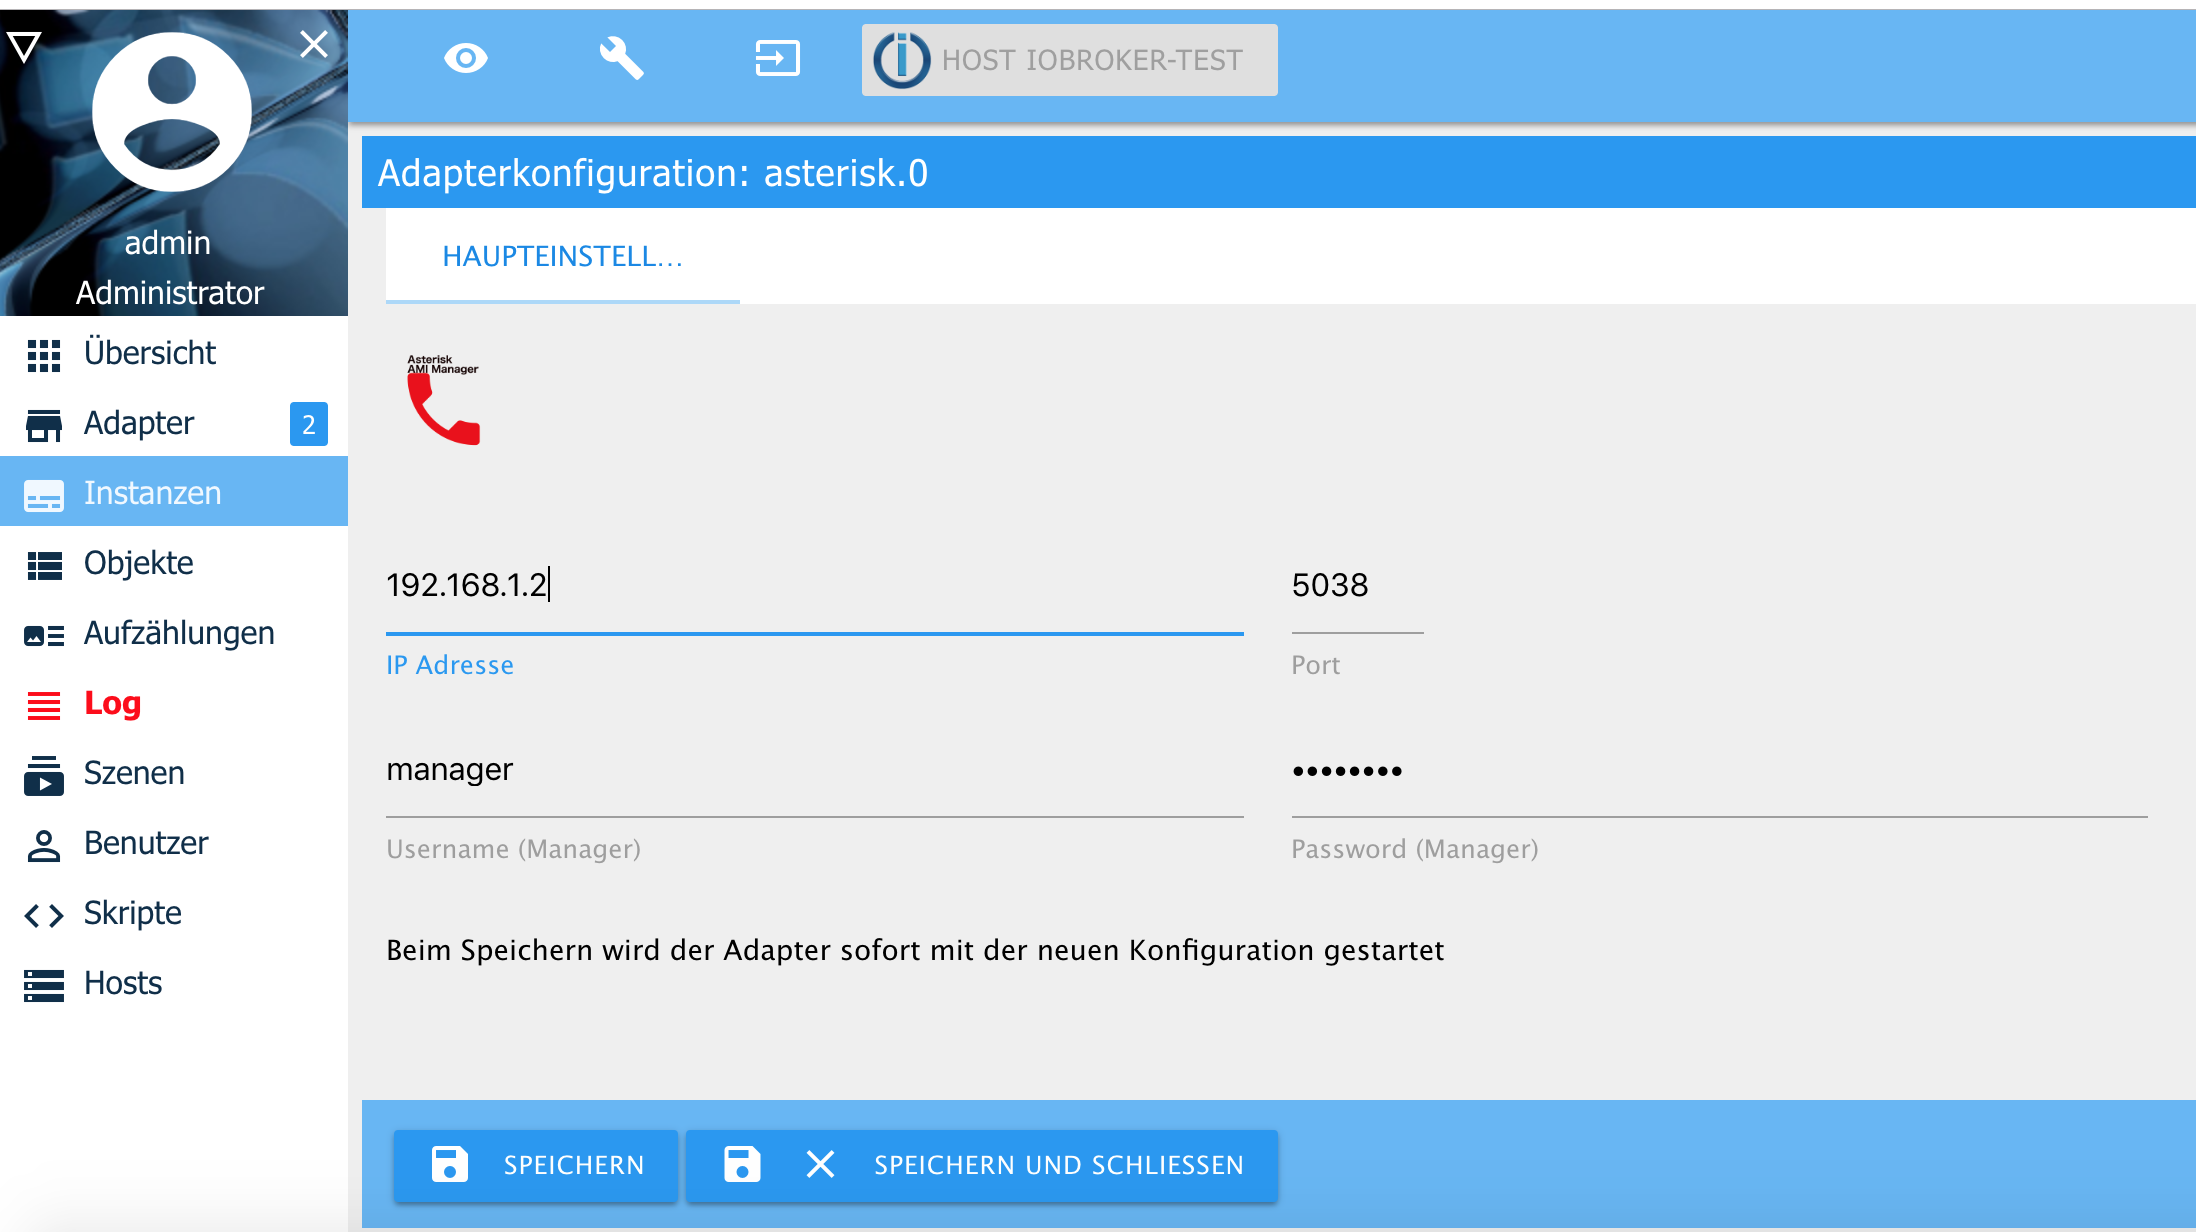
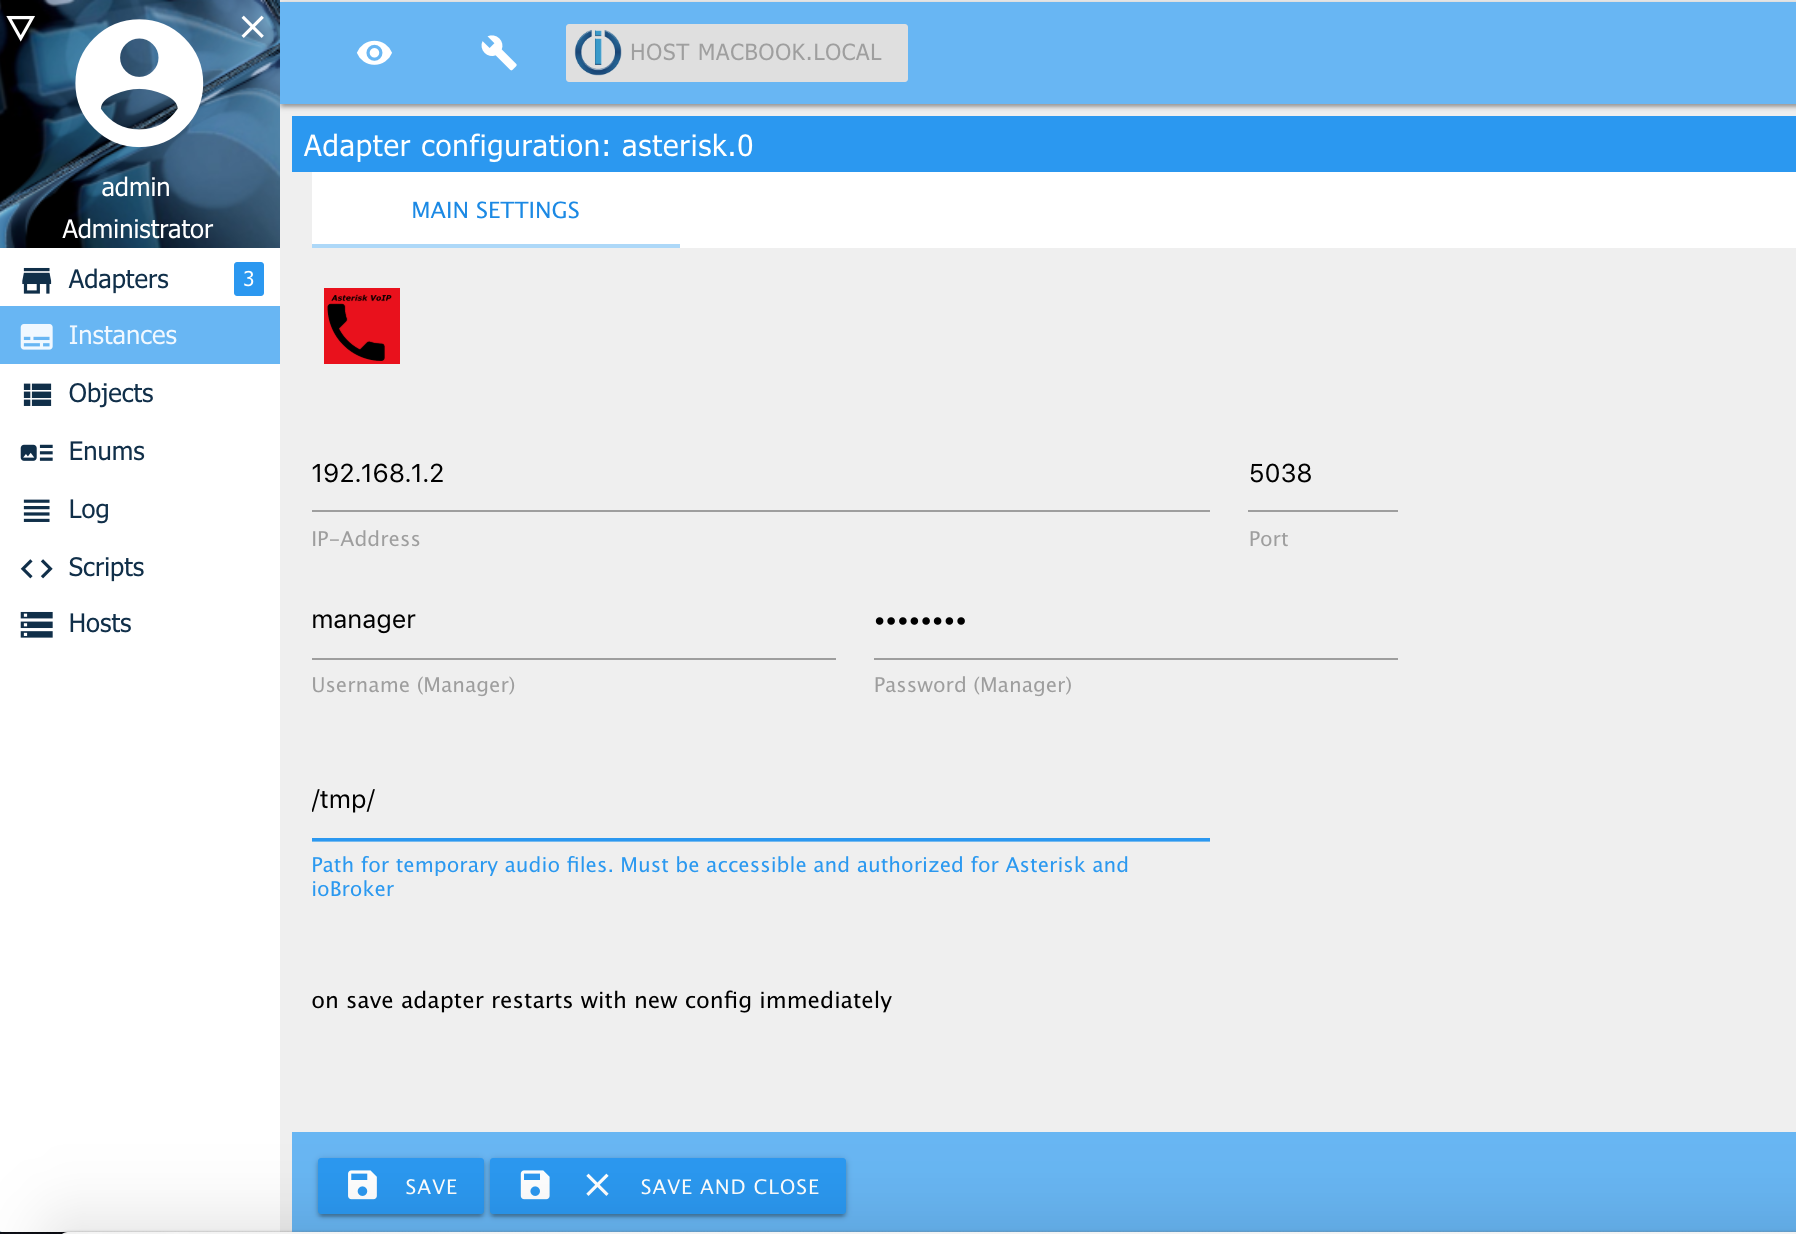
Update

diff --git a/asterisk.js b/asterisk.js
@@ -8,6 +8,7 @@ var ami = require(__dirname + '/lib/ami');
 var transcode = require(__dirname + '/lib/transcode');
 var asterisk = undefined
 var converter = undefined;
+var systemLanguage  = 'EN';
 
 // *****************************************************************************************************
 // is called when adapter shuts down - callback has to be called under any circumstances!
@@ -38,19 +39,24 @@ adapter.on('message', (msg) => {
   let parameter = msg.message;
   let callback = msg.callback;
   let id = msg._id;
+  let tmppath = adapter.config.path || '/tmp/';
 
   adapter.log.debug('Message: ' + JSON.stringify(msg));
 
+  if(tmppath.slice(-1) != '/' && tmppath.slice(-1) != '\\' ) {
+    tmppath = tmppath +  '/';
+  } 
 
   if (parameter) {
-
     if (command == 'dial') {
       if (parameter.text && parameter.telnr) {
-        if (!parameter.audiofile) parameter.audiofile = '/tmp/audio_' + id ;
+        if (!parameter.audiofile) parameter.audiofile =  tmppath + 'audio_' + id ;
         if (converter.getFilenameExtension(parameter.audiofile).toLowerCase() == 'gsm') {
           parameter.audiofile = converter.getBasename(parameter.audiofile);
         }
-        converter.textToGsm(parameter.text, 'DE', 100, parameter.audiofile + '.gsm')
+        let language = parameter.language || systemLanguage;
+        adapter.log.debug('Parameter: ' + JSON.stringify(parameter));
+        converter.textToGsm(parameter.text, language, 100, parameter.audiofile + '.gsm')
           .then((file) => {
             adapter.log.debug("dial start dialing " + JSON.stringify(file));
             // The file is converted at path "file"
@@ -73,6 +79,7 @@ adapter.on('message', (msg) => {
           let fileNameMP3 = parameter.audiofile;
           let fileNameGSM = converter.getBasename(parameter.audiofile) + '.gsm';
           parameter.audiofile = converter.getBasename(parameter.audiofile);
+          adapter.log.debug('Parameter: ' + JSON.stringify(parameter));
           converter.mp3ToGsm(fileNameMP3, fileNameGSM, false)
             .then((file) => {
               adapter.log.debug("dial start dialing " + JSON.stringify(file));
@@ -94,6 +101,7 @@ adapter.on('message', (msg) => {
         } else {
           // play audio file if exist
           parameter.audiofile = converter.getBasename(parameter.audiofile);
+          adapter.log.debug('Parameter: ' + JSON.stringify(parameter));
           asterisk.dial(parameter, (err, res) => {
             if (err) {
               adapter.log.error("dial error " + JSON.stringify(err));
@@ -111,8 +119,10 @@ adapter.on('message', (msg) => {
 
     if (command == 'action') {
       if (parameter.text) {
-        if (!parameter.audiofile) parameter.audiofile = '/tmp/audio_' + id;
-        converter.textToGsm(parameter.text, 'DE', 100, parameter.audiofile + ".gsm")
+        if (!parameter.audiofile) parameter.audiofile = tmppath + 'audio_' + id;
+        let language = parameter.language || systemLanguage;
+        adapter.log.debug('Parameter: ' + JSON.stringify(parameter));
+        converter.textToGsm(parameter.text, language, 100, parameter.audiofile + ".gsm")
           .then((file) => {
             adapter.log.debug("action start acion " + JSON.stringify(file));
             // The file is converted at path "file"
@@ -130,6 +140,7 @@ adapter.on('message', (msg) => {
             adapter.log.error("action error " + JSON.stringify(err));
           });
       } else {
+        adapter.log.debug('Parameter: ' + JSON.stringify(parameter));
         asterisk.action(parameter, (err, res) => {
           if (err) {
             adapter.log.error("action error " + JSON.stringify(err));
@@ -153,11 +164,18 @@ adapter.on('message', (msg) => {
 // is called when databases are connected and adapter received configuration.
 // start here!
 // *****************************************************************************************************
+// adapter.on('ready', () => {
+
+//   adapter.log.info("Adapter " + adapter.namespace + " starting!");
+//   main();
+
+// });
+
 adapter.on('ready', () => {
-
-  adapter.log.info("Adapter " + adapter.namespace + " starting!");
-  main();
-
+  adapter.getForeignObject('system.config', (err, obj) => {
+      systemLanguage = (obj.common.language).toUpperCase();
+      main();
+  });
 });
 
 

diff --git a/admin/words.js b/admin/words.js
@@ -59,7 +59,7 @@ systemDictionary = {
   },
   "Password (Manager)": {
     "en": "Password (Manager)",
-    "de": "Passwortmanager)",
+    "de": "Passwort (Manager)",
     "ru": "Пароль (Менеджер)",
     "pt": "Senha (Manager)",
     "nl": "Wachtwoord (Manager)",
@@ -67,5 +67,16 @@ systemDictionary = {
     "it": "Password (Manager)",
     "es": "Contraseña (Administrador)",
     "pl": "Hasło (menedżer)"
+  },
+  "Path for temporary audio files. Must be accessible and authorized for Asterisk and ioBroker": {
+    "en": "Path for temporary audio files. Must be accessible and authorized for Asterisk and ioBroker",
+    "de": "Pfad für temporäre Audiodateien. Muss für Asterisk und ioBroker zugänglich und autorisiert sein",
+    "ru": "Путь для временных аудиофайлов. Должен быть доступен и разрешен для Asterisk и ioBroker",
+    "pt": "Caminho para arquivos de áudio temporários. Deve ser acessível e autorizado para o Asterisk e o ioBroker",
+    "nl": "Pad voor tijdelijke audiobestanden. Moet toegankelijk en geautoriseerd zijn voor Asterisk en ioBroker",
+    "fr": "Chemin pour les fichiers audio temporaires. Doit être accessible et autorisé pour Asterisk et ioBroker",
+    "it": "Percorso per file audio temporanei. Deve essere accessibile e autorizzato per Asterisk e ioBroker",
+    "es": "Ruta para archivos de audio temporales. Debe ser accesible y autorizado para Asterisk y ioBroker.",
+    "pl": "Ścieżka do tymczasowych plików audio. Musi być dostępny i autoryzowany dla Asterisk i ioBroker"
   }
 };

diff --git a/admin/index_m.html b/admin/index_m.html
@@ -208,14 +208,27 @@
         </div>
 
         <div class="row">
-          <div class="col s12 m8 l5">
+          <div class="col s12 m8 l3">
             <input class="value" id="user" type="text" />
             <label class="translate" for="user">Username (Manager)</label>
           </div>
-          <div class="col s12 m8 l5">
+          <div class="col s12 m8 l3">
             <input class="value" id="password" type="password" />
             <label class="translate" for="password">Password (Manager)</label>
           </div>
+        </div>
+
+        <div class="row">
+        </div>
+
+        <div class="row">
+          <div class="col s12 m8 l5">
+            <input class="value" id="path" type="text" />
+            <label class="translate" for="path">Path for temporary audio files. Must be accessible and authorized for Asterisk and ioBroker</label>
+          </div>
+        </div>
+
+        <div class="row">
         </div>
 
         <div class="row">

diff --git a/README.md b/README.md
@@ -18,7 +18,9 @@ You have to install asterisk for voip calls and ffmpeg to trancode mp3 audofiles
 
 You cann install asterisk and ffmpeg on Linux (Raspberry), Windows and Apple Macs Computer. If you want to install asterisk in a docker container in bridge modus, you have to expose the UDP ports 5038,5060 and the UDP Ports 7078 to 7097. 
 
-Important: asterisk and ffmpeg hst to be on the same hardware as ioBroker! The reason is that the audio files are stored locally. Maybe I will add an SFTP tranfer of audio files in one of the following versions.
+Important: asterisk and ffmpeg has to be on the same hardware as ioBroker! The reason is that the audio files are stored locally and accesable from both aplication. Maybe I will add an SFTP tranfer of audio files in one of the following versions.
+
+If you still want to use separated server for ioBroker and Asterisk there is a work around. You still install ffmpeg on the ioBroker server. You have to share a path on a server (for example with cifs), where both ioBroker and Asterisk have read and write access. The path name must on the asterisk and ioBroker server completle identical. The command *ln -s* will help! You have to enter the path in the ioBroker asterisk adapter configuraton (see screenshot below).
 
 if you use Linux (Raspbery for example) you have to install ffmpeg and asterisk like this: 
 
@@ -61,8 +63,8 @@ bindaddr = 0.0.0.0
 context = default
 subscribecontext = default
 
-;           Username:Password@SIP-Server-IP/Extension of default (subscribecontext)
-register => 12345689:mypassword@192.168.1.1/1000    ; Username, Password and IP address of Fritzbox WLAN/LAN telephone
+
+register => 12345689:mypassword@192.168.1.1/1000 ; Username, Password and IP address of Fritzbox WLAN/LAN telephone
 
 [12345689]                ; username of Fritzbox WLAN/LAN telephone
 type = friend
@@ -78,30 +80,23 @@ You have to change in */etc/asterisk/sip.conf* the *host* (IP Adress of Fritzbox
 
 **/etc/asterisk/extensions.ael**
 ```sh
-globals {
-	CONSOLE-AEL="Console/dsp"; 		// Console interface for demo
-	IAXINFO-AEL=guest;				// IAXtel username/password
-	OUTBOUND-TRUNK="Zap/g2";		// Trunk interface
-	OUTBOUND-TRUNKMSD=1;			// MSD digits to strip (usually 1 or 0)
-};
-
 context default {
-  1000 => {
+  	1000 => {
         Goto(ael-antwort,10,1);
-  }
+  	}
 }
 
 context ael-ansage {
-        10 => {
-                Answer();
-                Wait(1);
-                for (x=0; ${x} < ${repeat}; x=${x} + 1) {
-                        Playback(${file});
+	10 => {
+		Answer();
+		Wait(1);
+		for (x=0; ${x} < ${repeat}; x=${x} + 1) {
+			Playback(${file});
 			Playback(beep);
-                	Wait(1);
-                }
+			Wait(1);
+		}
 		Hangup();
-        }
+	}
 }
 
 context ael-antwort {
@@ -109,8 +104,8 @@ context ael-antwort {
 		Answer();
 		Wait(1);
 		Playback(beep);
-    		Wait(10);
-    		Hangup();
+    	Wait(10);
+    	Hangup();
 	}
 }
 ```
@@ -118,7 +113,7 @@ Copy the content above into the */etc/asterisk/extensions.ael* and do not change
 
 
 For starting the asterisk server type */etc/init.d/asterisk start*
-Now you have to connect ioBroker with the asterisk server. If the ioBroker and the asterisk server use as IP adress 192.168.1.2 you have to configure this IP and the port, username and password from the */etc/asterisk/manager.conf*.
+Now you have to connect ioBroker with the asterisk server. If the ioBroker and the asterisk server use as IP adress 192.168.1.2 you have to configure this IP and the port, username and password from the */etc/asterisk/manager.conf*. You have enter a path for temporary audio files. This path must be accessible and authorized for Asterisk and ioBroker. 
 
 ![Iobroker1](admin/iobroker1.png)
 
@@ -147,6 +142,7 @@ sendTo('asterisk.0', "dial", { telnr: number, aufiofile: '/tmp/audio.gsm'},  (re
 ```
 
 > You can use following parameter in the sendTo dial statement:
+> - **language:** language take for text to speach (tts) function. (allowed values: 'DE', 'EN', ... Default is ioBroker system language)
 > - **repeat:** how many times shall the audio message repeated (allowed values 1 to n, default 5)
 > - **priority:** if you send “parallel” many sendTo dial  statements, the messages with a smallest priority will be send first (allowed values 1 to n, default 1)
 > - **text:** text message that will be send as audio (max 200 characters) 
